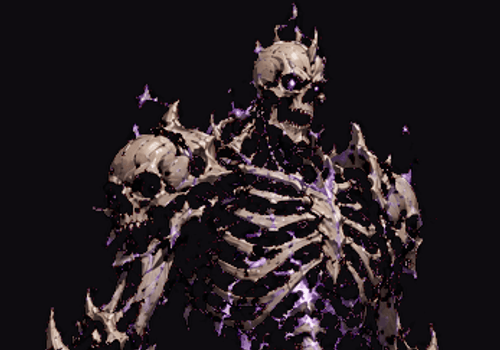
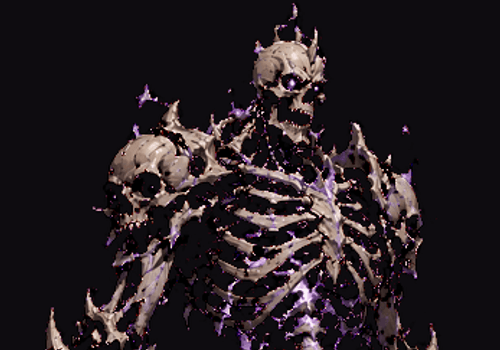
Fix Zera/Kharos still being see-through, and the same defect on Orin
§9.34's gamma-curve alpha boost wasn't strong enough — it looked fixed
against a flat preview background, but against the actual busy
battlefield art (arena-plaza.jpg) both heroes were still clearly
translucent, confirmed by the user's own in-game screenshot. A gamma
curve barely moves low-alpha pixels; switched to a much more aggressive
linear multiply-and-clamp (alpha × 4.5), tuned by compositing test
crops directly onto the real battlefield background rather than a
flat swatch.

Orin turned out to have the identical defect (same ~40%-of-pixels-
under-alpha-150 profile as pre-fix Zera/Kharos) despite not being
reported — fixed with the same pass rather than waiting for a separate
report, since the symptom and root cause matched exactly.

Re-derived all three from their true pre-§9.34 originals (via git
history for Zera/Kharos) rather than stacking a second decontamination
pass on already-adjusted files, which would have double-corrected the
color. Sprite + portrait fixed directly (still carry alpha); card art
regenerated fresh from the corrected sprite through each hero's
existing crop box, since it's flattened at crop time with no alpha
left to patch.

Verified via Playwright in a practice match, screenshotted against the
real battlefield background: Zera and Kharos read as solid on both the
ally and enemy side; zero console errors. Full pipeline (tsc -b,
oxlint, 75-test Vitest suite, vite build, cap sync android) passes.
[…]

diff --git a/DESIGN.md b/DESIGN.md
@@ -2514,3 +2514,53 @@ console errors. Full pipeline (`tsc -b`, `oxlint`, 75-test Vitest
 suite, `vite build`, `cap sync android`) passes. `sharp` was a
 temporary `--no-save` dev dependency for this image work only,
 uninstalled after use.
+
+### 9.35 §9.34's de-fade wasn't nearly strong enough — and Orin has the same defect
+
+§9.34's gamma-curve alpha boost (0.55/0.45) looked fixed against a flat
+dark preview background, but the user reported Zera and Kharos still
+read as "basically see through" in the actual game — against the
+busy, brightly-lit `arena-plaza.jpg` battlefield art, partial
+transparency is far more visible than against a flat swatch, and a
+gamma curve on alpha (`255 * af^gamma`) barely moves anything below
+~0.4 opacity: at gamma 0.55, a pixel starting at 30% alpha only reaches
+~49% — nowhere near opaque. Re-measured: even after §9.34's fix, Zera
+and Kharos still had ~40% of their own visible pixels under alpha 150,
+against ~5-12% for a normally-exported hero.
+
+Composited test crops directly onto the real `arena-plaza.jpg`
+background (not a flat swatch) this time, specifically to judge
+against what the user is actually seeing rather than a background that
+flatters partial transparency. A blunt linear multiply-and-clamp
+(`min(255, alpha × 4.5)`) — much more aggressive than a gamma curve —
+pushed the great majority of both characters' bodies to full opacity
+while composited-preview comparisons at ×3/×4/×5 showed diminishing
+returns past ×4, landing on ×4.5 for a safety margin. The thin wispy
+edges (hair strands, Orin's floating leaf/ember motes) staying
+slightly translucent is correct, not a residual bug — those elements
+read as intentionally ethereal on every other hero too.
+
+**Orin turned out to have the identical defect, unreported until this
+image was sent** — same ~40%-under-alpha-150 profile as Zera/Kharos
+pre-fix, presumably from the same "second wave" art export batch
+(§9.20). Since the symptom and root cause were identical, fixed with
+the same multiply-and-clamp pass rather than waiting for a separate
+report.
+
+**Re-derived from the true pre-§9.34 originals (via git history), not
+from §9.34's already-adjusted files on disk** — stacking a second
+decontamination pass on art that had already been decontaminated once
+would double-correct the color rather than compound the fix
+correctly. Applied directly to each hero's sprite and portrait (both
+still carry an alpha channel); card art was regenerated fresh from the
+newly-fixed sprite through the same crop box §9.30's formula already
+used for each hero, exactly as in §9.34, since it's flattened (no
+alpha left to patch) at crop time.
+
+Verified via Playwright in an actual practice match, screenshotted
+against the real battlefield background (not a synthetic preview):
+Zera and Kharos both read as solid on either side of the field (ally
+and enemy copies); zero console errors. Full pipeline (`tsc -b`,
+`oxlint`, 75-test Vitest suite, `vite build`, `cap sync android`)
+passes. `sharp` was a temporary `--no-save` dev dependency, uninstalled
+after use.
